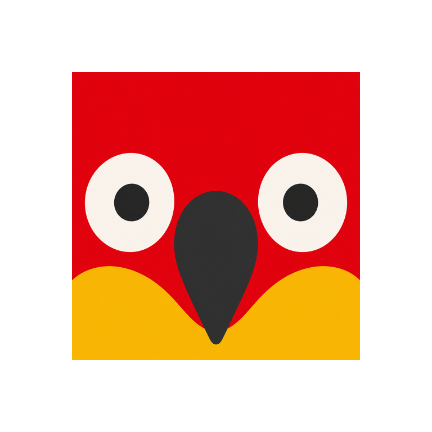
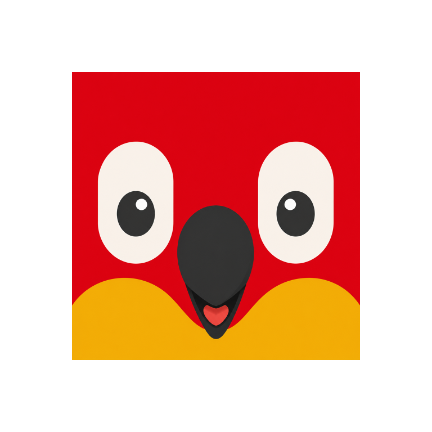
feat(splash): redesign in-app splash with new character vector art [BB-140] (#87)
* chore(design): refresh android foreground icon and favicon

* feat(splash): redesign in-app splash with new character vector art [BB-140]

diff --git a/components/app/splash-artwork.tsx b/components/app/splash-artwork.tsx
@@ -1,15 +1,17 @@
 import { useEffect } from 'react';
+import { StyleSheet } from 'react-native';
 import Animated, {
   cancelAnimation,
   Easing,
   type SharedValue,
   useAnimatedProps,
+  useAnimatedStyle,
   useSharedValue,
   withDelay,
   withSequence,
   withTiming,
 } from 'react-native-reanimated';
-import Svg, { Ellipse, Path, Rect, Text as SvgText } from 'react-native-svg';
+import Svg, { Ellipse, G, Path, Rect, Text as SvgText } from 'react-native-svg';
 import { scheduleOnRN } from 'react-native-worklets';
 
 import { BuddyBirdColors, Fonts } from '@/constants/theme';
@@ -17,49 +19,82 @@ import { useReducedMotion } from '@/hooks/use-reduced-motion';
 
 /**
  * Claude Design "BuddyBird Splash.html" 의 SVG 를 react-native-svg 로 이식.
- * viewBox·path·좌표·색은 디자인 SSoT 그대로. 색만 인라인 hex 금지 규칙에 따라 토큰화.
- * 반응형: 디자인이 정한 `preserveAspectRatio="xMidYMid slice"` + 넉넉한 viewBox 여백으로
- * 화면비가 달라도 빈 빨강 하늘/노랑 바닥만 잘리고 핵심 요소는 보존됨.
+ * 배경·몸통·부리·혀 path 와 viewBox·색은 디자인 SSoT 그대로 (색만 인라인 hex 금지 규칙에 따라 토큰화).
+ * 반응형: 디자인의 meet + 그라데이션 letterbox 대신 `slice` 로 화면을 꽉 채운다 — viewBox
+ * 비율(860:1851 ≈ 0.465)이 폰 화면비와 거의 일치해 크롭이 무시할 수준이고, 남는 영역은
+ * 오버레이의 단색 splashRed 가 받친다.
  *
- * 눈 깜빡임: 디자인의 eyeBall scaleY 깜빡임을 타원 `ry` 애니메이션으로 구현(타원 중심 기준이라
- * G transform 앵커 이슈 없음). 첫 깜빡임 완료 시 `onFirstBlink` 로 게이트에 알려 스플래시 유지에 사용.
+ * 등장: splashIn (opacity 0→1 + scale .965→1) 페이드인 (View 스타일 애니메이션).
+ * 깜빡임: 디자인 `.eye` 의 scaleY 붕괴 — G transform 은 react-native-svg 에서 애니메이트 불가
+ * (Reanimated "Animating SVG": G 는 appearance prop 만)이라, 눈 도형의 geometry(Rect y/height,
+ * Ellipse cy/ry)를 공통 세로축(y=755)에서 접어 동일 효과를 낸다. 디자인 matrix 는 viewBox
+ * 좌표로 미리 환산. 더블 블링크 1회 완료 시 `onFirstBlink` 로 게이트에 알려 스플래시 유지 해제.
  */
+const AnimatedRect = Animated.createAnimatedComponent(Rect);
 const AnimatedEllipse = Animated.createAnimatedComponent(Ellipse);
 
-const EYE_CREAM_R = 290;
-const EYE_PUPIL_R = 80;
-const BLINK_AMOUNT = 0.95; // 감김 정도 (1=완전, 0=뜸)
-const BLINK_START_MS = 500; // 등장 후 첫 깜빡임까지
+const EYE_PIVOT_Y = 755; // 눈 세로 중심 (흰자위 bbox 559..951)
+// 디자인 matrix 환산값 (viewBox 좌표). 흰자위 blob = 캡슐(rx=폭/2) 로 재현 — 직선 측면+돔 끝이 거의 일치.
+const WHITE_X = 54;
+const WHITE_W = 240;
+const WHITE_H = 392;
+const WHITE_RX = 120;
+const PUPIL_CX = 177;
+const PUPIL_CY = 791.5;
+const PUPIL_RX = 61;
+const PUPIL_RY = 73.5;
+const CATCH_CX = 195.5;
+const CATCH_CY = 761.5;
+const CATCH_RX = 18.5;
+const CATCH_RY = 19.5;
+
+const EYE_OPEN = 1;
+const EYE_CLOSED = 0.07; // 디자인 blink scaleY .07
+const FADE_IN_MS = 760;
+const BLINK_START_MS = 1000;
 const BLINK_DOWN_MS = 90;
 const BLINK_UP_MS = 130;
 
 interface EyeProps {
-  creamCx: number;
-  pupilCx: number;
-  blink: SharedValue<number>;
+  tx: number; // 좌안 0, 우안 507 (디자인 matrix translate)
+  scaleY: SharedValue<number>;
 }
 
-function Eye({ creamCx, pupilCx, blink }: EyeProps) {
-  const creamProps = useAnimatedProps(() => ({ ry: EYE_CREAM_R * (1 - BLINK_AMOUNT * blink.value) }));
-  const pupilProps = useAnimatedProps(() => ({ ry: EYE_PUPIL_R * (1 - BLINK_AMOUNT * blink.value) }));
+// 흰자위(캡슐) + 눈동자 + 캐치라이트를 공통 세로축에서 접어 깜빡인다 (도형 geometry 만 애니메이트).
+function Eye({ tx, scaleY }: EyeProps) {
+  const whiteProps = useAnimatedProps(() => ({
+    y: EYE_PIVOT_Y - (WHITE_H * scaleY.value) / 2,
+    height: WHITE_H * scaleY.value,
+  }));
+  const pupilProps = useAnimatedProps(() => ({
+    cy: EYE_PIVOT_Y + (PUPIL_CY - EYE_PIVOT_Y) * scaleY.value,
+    ry: PUPIL_RY * scaleY.value,
+  }));
+  const catchProps = useAnimatedProps(() => ({
+    cy: EYE_PIVOT_Y + (CATCH_CY - EYE_PIVOT_Y) * scaleY.value,
+    ry: CATCH_RY * scaleY.value,
+  }));
 
   return (
     <>
-      <AnimatedEllipse
-        cx={creamCx}
-        cy={706}
-        rx={EYE_CREAM_R}
-        ry={EYE_CREAM_R}
-        animatedProps={creamProps}
-        fill={BuddyBirdColors.splashCream}
+      <AnimatedRect
+        x={WHITE_X + tx}
+        width={WHITE_W}
+        rx={WHITE_RX}
+        fill={BuddyBirdColors.splashEyeWhite}
+        animatedProps={whiteProps}
       />
       <AnimatedEllipse
-        cx={pupilCx}
-        cy={722}
-        rx={EYE_PUPIL_R}
-        ry={EYE_PUPIL_R}
+        cx={PUPIL_CX + tx}
+        rx={PUPIL_RX}
+        fill={BuddyBirdColors.splashPupil}
         animatedProps={pupilProps}
-        fill={BuddyBirdColors.splashInk}
+      />
+      <AnimatedEllipse
+        cx={CATCH_CX + tx}
+        rx={CATCH_RX}
+        fill={BuddyBirdColors.splashEyeWhite}
+        animatedProps={catchProps}
       />
     </>
   );
@@ -71,22 +106,28 @@ interface SplashArtworkProps {
 
 export function SplashArtwork({ onFirstBlink }: SplashArtworkProps) {
   const reducedMotion = useReducedMotion();
-  const blink = useSharedValue(0); // 0=뜬 눈, 1=감은 눈
+  const enter = useSharedValue(0); // 0→1 페이드인 진행도
+  const eyeScaleY = useSharedValue(EYE_OPEN); // 1=뜬 눈, EYE_CLOSED=감은 눈
 
   useEffect(() => {
     if (reducedMotion) {
-      blink.set(0);
-      onFirstBlink?.(); // 동작 줄이기: 깜빡임 생략, dismissal 차단 안 함
+      enter.set(1);
+      eyeScaleY.set(EYE_OPEN);
+      onFirstBlink?.(); // 동작 줄이기: 페이드/깜빡임 생략, dismissal 차단 안 함
       return;
     }
 
-    // 등장 후 1회 깜빡임 → 완료 시 게이트에 알림(스플래시 유지 해제). 이후 눈은 뜬 채 유지.
-    blink.set(
+    enter.set(withTiming(1, { duration: FADE_IN_MS, easing: Easing.bezier(0.22, 1, 0.36, 1) }));
+
+    // 더블 블링크(디자인 keyframe: 감김→뜸→감김→뜸) 1회 → 완료 시 게이트에 알림. 이후 눈은 뜬 채.
+    eyeScaleY.set(
       withDelay(
         BLINK_START_MS,
         withSequence(
-          withTiming(1, { duration: BLINK_DOWN_MS, easing: Easing.in(Easing.quad) }),
-          withTiming(0, { duration: BLINK_UP_MS, easing: Easing.out(Easing.quad) }, (finished) => {
+          withTiming(EYE_CLOSED, { duration: BLINK_DOWN_MS, easing: Easing.in(Easing.quad) }),
+          withTiming(EYE_OPEN, { duration: BLINK_UP_MS, easing: Easing.out(Easing.quad) }),
+          withTiming(EYE_CLOSED, { duration: BLINK_DOWN_MS, easing: Easing.in(Easing.quad) }),
+          withTiming(EYE_OPEN, { duration: BLINK_UP_MS, easing: Easing.out(Easing.quad) }, (finished) => {
             if (finished && onFirstBlink) {
               scheduleOnRN(onFirstBlink);
             }
@@ -95,33 +136,62 @@ export function SplashArtwork({ onFirstBlink }: SplashArtworkProps) {
       )
     );
 
-    return () => cancelAnimation(blink);
-  }, [blink, onFirstBlink, reducedMotion]);
+    return () => {
+      cancelAnimation(enter);
+      cancelAnimation(eyeScaleY);
+    };
+  }, [enter, eyeScaleY, onFirstBlink, reducedMotion]);
+
+  const containerStyle = useAnimatedStyle(() => ({
+    opacity: enter.value,
+    transform: [{ scale: 0.965 + 0.035 * enter.value }],
+  }));
 
   return (
-    <Svg width="100%" height="100%" viewBox="0 -320 1080 2759" preserveAspectRatio="xMidYMid slice">
-      <Rect x={0} y={-320} width={1080} height={2759} fill={BuddyBirdColors.splashRed} />
-      <Path
-        d="M -40,1142 C 200,1140 340,1300 540,1528 C 740,1300 880,1140 1120,1142 L 1120,2460 L -40,2460 Z"
-        fill={BuddyBirdColors.splashYellow}
-      />
-      <Eye creamCx={75} pupilCx={100} blink={blink} />
-      <Eye creamCx={1005} pupilCx={983} blink={blink} />
-      {/* 부리 */}
-      <Path
-        d="M 540,729 C 690,732 762,860 762,1010 C 762,1240 650,1542 540,1580 C 430,1542 318,1240 318,1010 C 318,860 390,732 540,729 Z"
-        fill={BuddyBirdColors.splashInk}
-      />
-      {/* 워드마크 */}
-      <SvgText
-        x={540}
-        y={1820}
-        textAnchor="middle"
-        fontFamily={Fonts.splashWordmark}
-        fontSize={118}
-        fill={BuddyBirdColors.splashCream}>
-        BuddyBird
-      </SvgText>
-    </Svg>
+    <Animated.View style={[StyleSheet.absoluteFill, containerStyle]}>
+      <Svg width="100%" height="100%" viewBox="0 0 860 1851" preserveAspectRatio="xMidYMid slice">
+        <G transform="matrix(1,0,0,1,4,0)">
+          {/* 빨강 배경(전면) + 노랑 바닥(물결 경계 = 새 몸통 실루엣) */}
+          <G transform="matrix(5.474359,0,0,10.266667,-810.205128,-636.533333)">
+            <Rect x={148} y={62} width={156} height={180} fill={BuddyBirdColors.splashRed} />
+          </G>
+          <Path
+            d="M856,1137L856,1851L-4,1850L-3,1139.956C-3,1139.956 45.833,1052.493 152,1050C189.123,1049.128 226.049,1060.078 259,1081C292.686,1102.389 336.833,1149.833 358,1172C364.544,1178.853 373.5,1185.5 380,1190C385.272,1193.65 391.333,1196.667 397,1199C402.462,1201.249 408.5,1203 414,1204C419.258,1204.956 424.659,1205.157 430,1205C435.667,1204.833 442.172,1204.575 448,1203C454.167,1201.333 461.12,1198.556 467,1195C474.167,1190.667 483.498,1183.612 491,1177C500.833,1168.333 514.602,1154.604 526,1143C553.667,1114.833 611.833,1050.167 699,1050C723.911,1049.952 748.271,1054.002 772,1065C794.75,1075.544 815.5,1091.167 827,1104C830.281,1107.661 834.674,1111.977 838.176,1116.166C844.352,1123.551 852.065,1130.487 856,1137Z"
+            fill={BuddyBirdColors.splashYellow}
+          />
+
+          <Eye tx={0} scaleY={eyeScaleY} />
+          <Eye tx={507} scaleY={eyeScaleY} />
+
+          {/* 얼굴 어두운 면(부리 뒤) → 윗부리 → 아랫부리 → 혀 */}
+          <Path
+            d="M355,1013C341.568,1017.852 353.751,1039.561 359,1054C362.873,1064.655 368.333,1074.833 373,1084C377.333,1092.512 383.167,1102.5 387,1109C389.818,1113.779 392.479,1118.713 396,1123C399.833,1127.667 404.905,1132.179 410,1137C414.842,1141.582 424.333,1148.333 431,1148C437.667,1147.667 444.417,1140.264 450,1135C455.833,1129.5 460.978,1121.905 466,1115C471.333,1107.667 477.396,1099.441 482,1091C487,1081.833 491.592,1071.496 496,1060C500.831,1047.402 513.893,1017.964 499,1013C475.5,1005.167 378.396,1004.549 355,1013Z"
+            fill={BuddyBirdColors.splashFaceMask}
+          />
+          <Path
+            d="M425,751C383.264,752.79 323.667,781.167 306,878C301.076,904.987 308.381,942.298 313,960C316.628,973.905 321.085,985.757 327,995C337.871,1011.988 353.102,1025.866 365,1035C379.121,1045.841 377.667,1045 392,1056C399.261,1061.573 410.167,1067 416,1070C419.47,1071.784 423.102,1074.162 427,1074C431,1073.833 435.869,1071.119 440,1069C446.5,1065.667 457.7,1059.587 466,1054C474.667,1048.167 483.78,1041.21 492,1034C501.5,1025.667 515.201,1016.081 523,1004C531.5,990.833 538.567,972.075 543,955C547.5,937.667 551.182,918.443 550,900C543.333,796 473.736,748.91 425,751Z"
+            fill={BuddyBirdColors.splashBeak}
+          />
+          <Path
+            d="M329,997C330.833,1007.667 349.833,1060.5 360,1085C368.456,1105.378 381.701,1130.271 390,1144C395.921,1153.794 400.667,1162 407,1169C412.302,1174.86 420.5,1180.667 428,1180C435.5,1179.333 445.736,1175.055 452,1165C456.591,1157.63 463.7,1148.93 470.111,1138.225C481.308,1119.531 491.241,1097.141 499,1079C510.603,1051.873 521,1013.167 525,1001C527.88,992.24 506.901,1014.02 505,1024C503,1034.5 499.282,1046.99 495,1058C490.333,1070 483.434,1084.325 477,1096C471.484,1106.009 465.637,1115.699 458,1124C450.333,1132.333 440.667,1145.667 431,1146C421.333,1146.333 408.335,1135.041 400,1126C390.167,1115.333 380.134,1097.364 372,1082C358.5,1056.5 354.167,1038.167 349,1021C345.999,1011.028 327.236,986.737 329,997Z"
+            fill={BuddyBirdColors.splashBeak}
+          />
+          <Path
+            d="M429,1081C434.134,1080.827 436.463,1079.39 440,1078C444.667,1076.167 451.333,1070.333 457,1070C461.706,1069.723 466.722,1076.726 468,1082C469.333,1087.5 468.52,1096.868 465,1103C459.833,1112 446.778,1135.319 431,1137C410.154,1139.221 399.167,1117.167 393,1108C388.035,1100.62 386.333,1087.167 388,1081C389.568,1075.199 398.121,1068.625 403,1071C415.667,1077.167 422.205,1081.229 429,1081Z"
+            fill={BuddyBirdColors.splashTongue}
+          />
+        </G>
+        {/* 워드마크 — 디자인 HTML 엔 없지만 in-app 스플래시엔 유지(요청). 노랑 바닥 위 크림색. */}
+        <SvgText
+          x={430}
+          y={1540}
+          textAnchor="middle"
+          fontFamily={Fonts.splashWordmark}
+          fontSize={104}
+          fill={BuddyBirdColors.splashCream}>
+          BuddyBird
+        </SvgText>
+      </Svg>
+    </Animated.View>
   );
 }

diff --git a/constants/theme.ts b/constants/theme.ts
@@ -87,7 +87,11 @@ export const BuddyBirdColors = {
   splashRed: '#DB030F',
   splashYellow: '#F6AF02',
   splashCream: '#F7F2EA',
-  splashInk: '#2B2B29',
+  splashEyeWhite: '#FFFFFF',
+  splashPupil: '#252525',
+  splashFaceMask: '#141414',
+  splashBeak: '#2D2D2D',
+  splashTongue: '#F33837',
 };
 
 export type BuddyBirdCategory = '인사' | '음식' | '이름' | '기타';